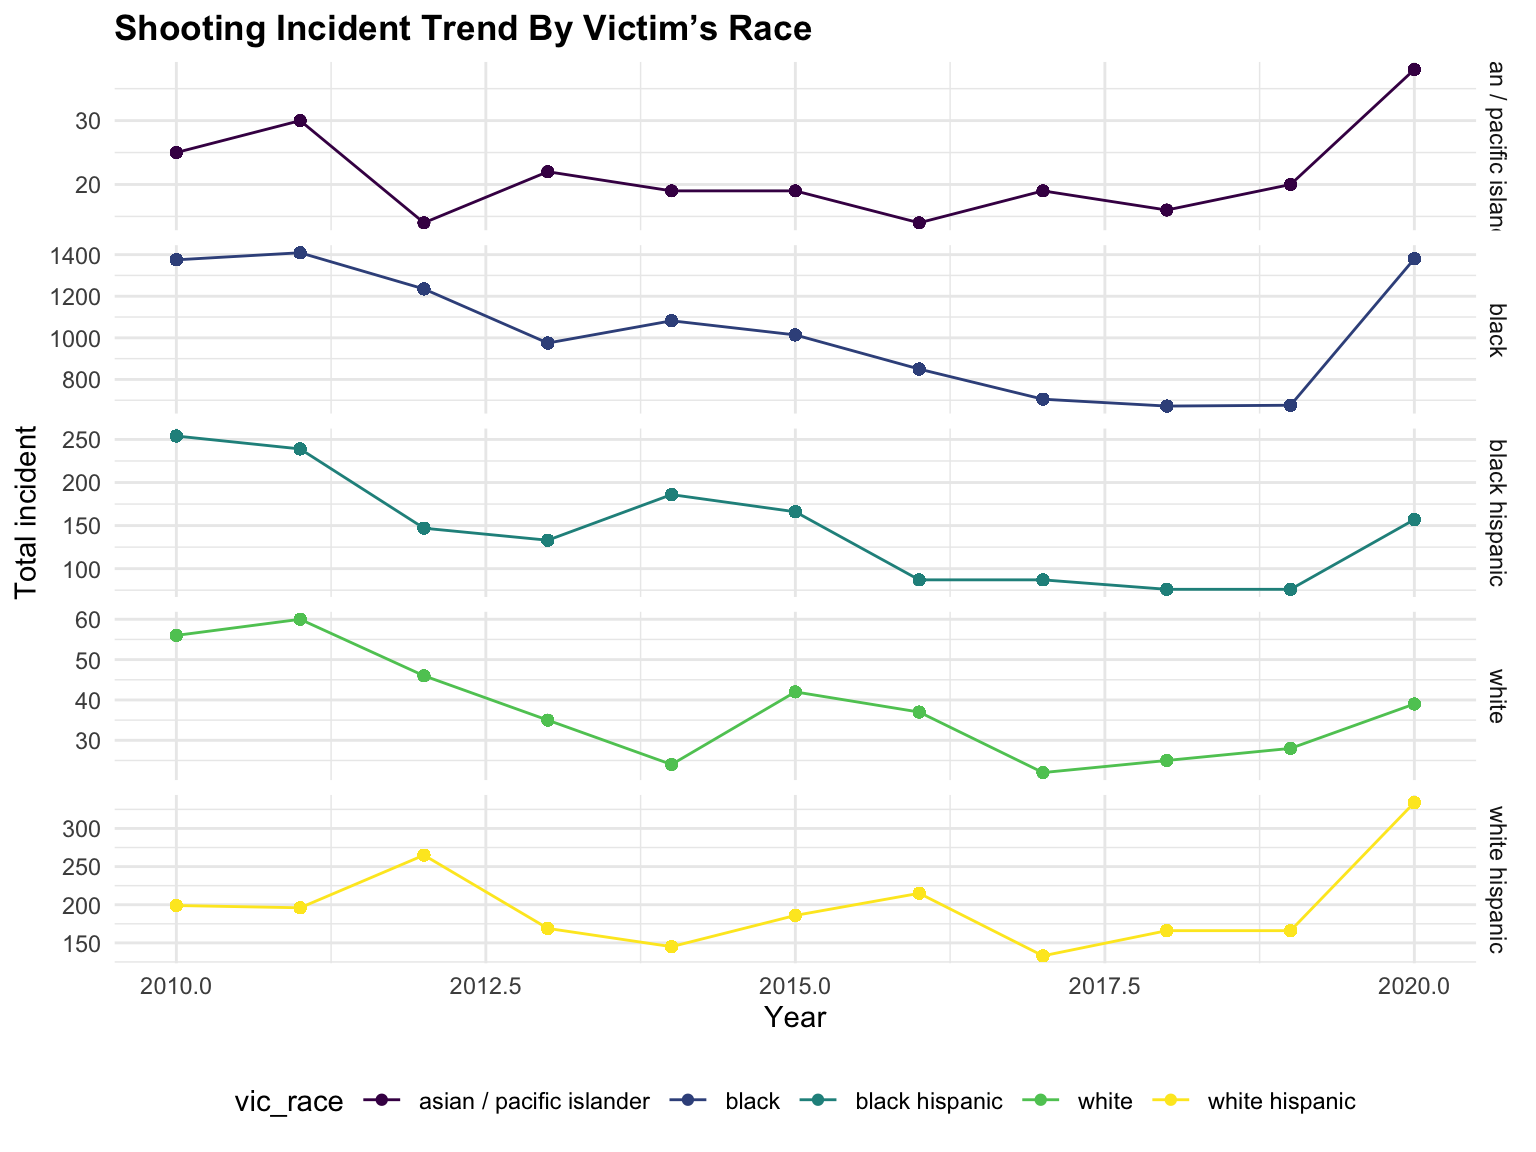
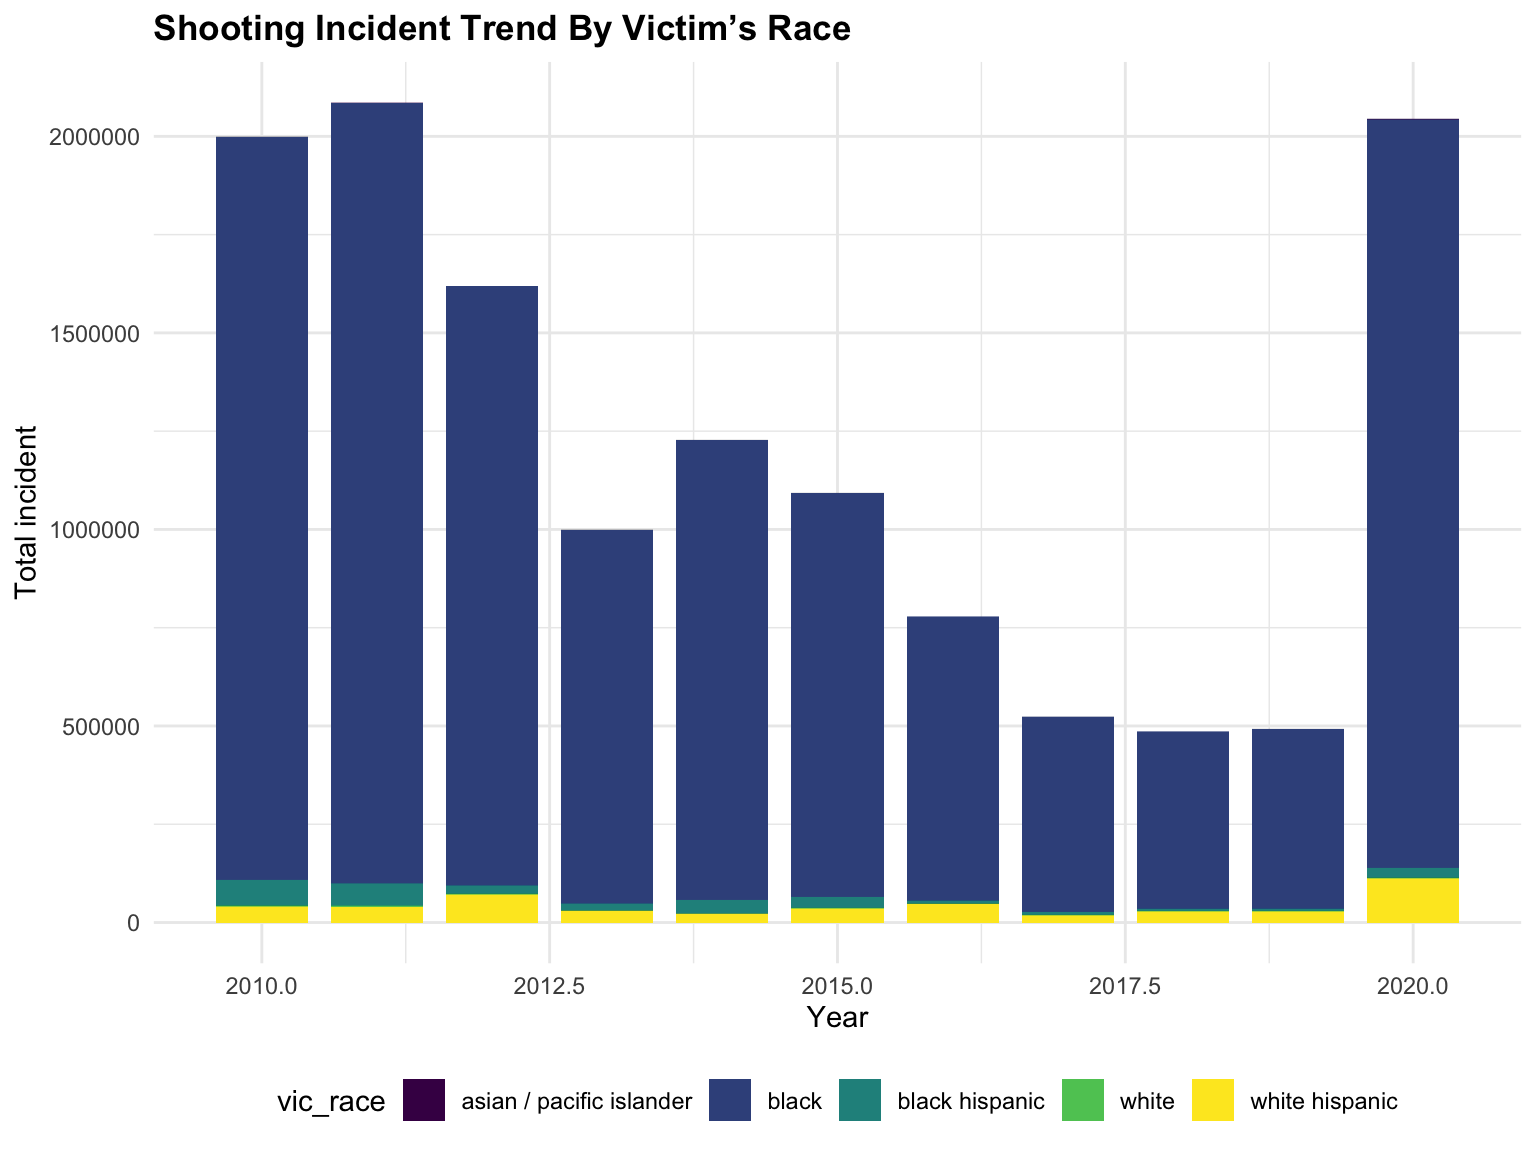
knit

diff --git a/analysis.html b/analysis.html
@@ -401,9 +401,9 @@ year_plot</code></pre>
          vic_race %in% c(&quot;black&quot;,&quot;white hispanic&quot;,&quot;black hispanic&quot;,&quot;white&quot;,&quot;asian / pacific islander&quot;,&quot;white&quot;)) %&gt;% 
   group_by(year,vic_race) %&gt;%
   mutate(n = n()) %&gt;%
-  ggplot(aes(x = year, y = n, color = vic_race)) + 
-  geom_point() + geom_line() +
-  facet_grid(rows = vars(vic_race), scales = &quot;free&quot;)+
+  ggplot(aes(x = year, y = n, fill = vic_race)) + 
+  geom_bar(width = 0.8, stat = &quot;identity&quot;)+
+  
 
   labs(x = &quot;Year&quot;,
        y = &quot;Total incident&quot;,
